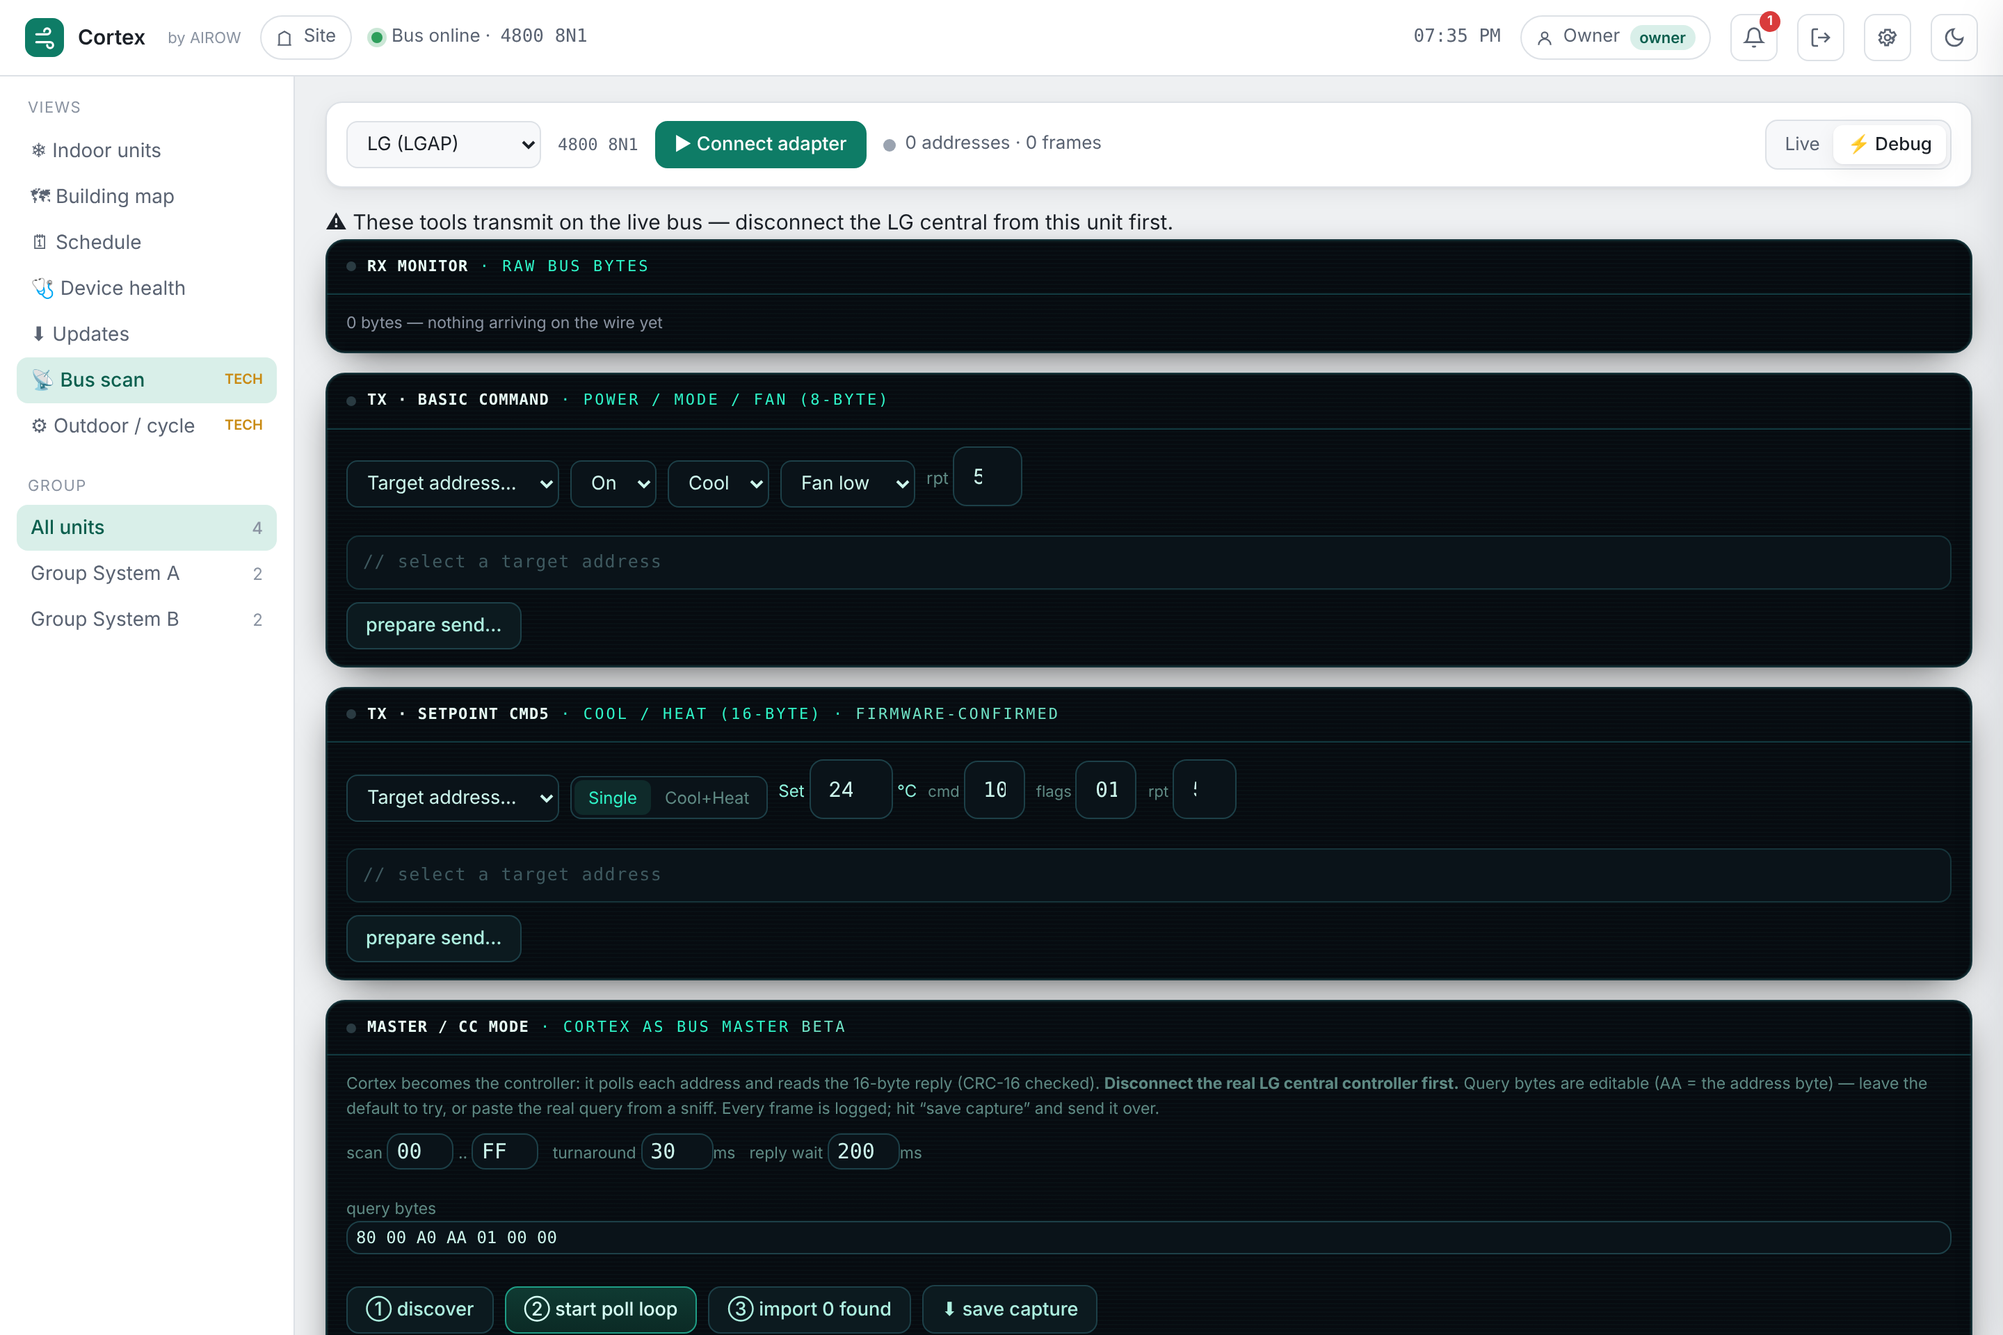
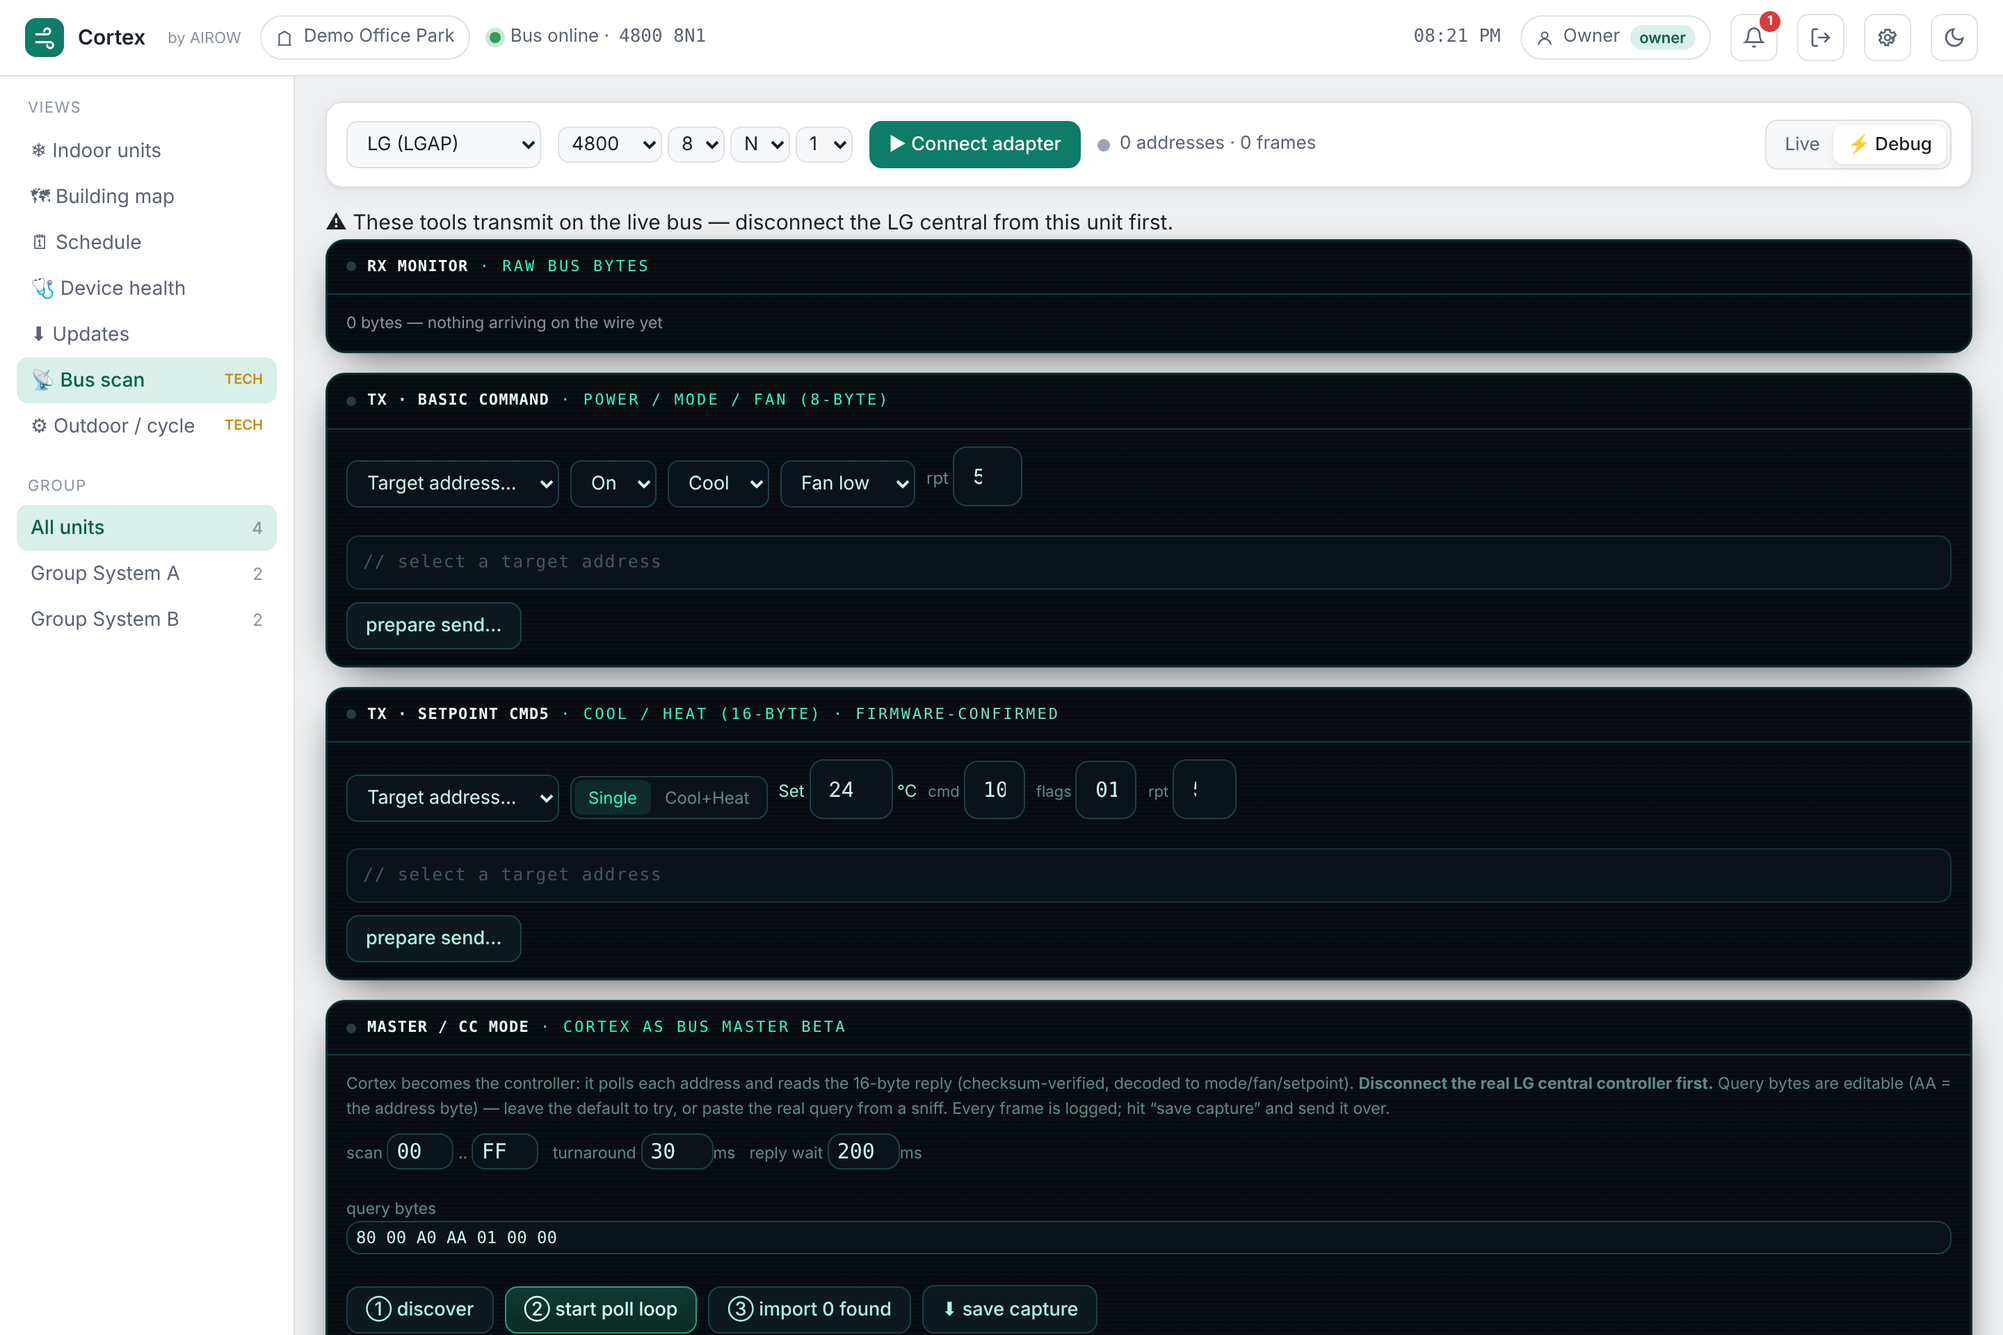
v1.4.0 fixes: drawer/overflow layout bug, updater +x permission, in-app update install/skip, editable serial, site name
- Fix horizontal-overflow bug: off-canvas drawer is now position:fixed + overflow-x:hidden.
- Fix the execute-bit loss that broke OTA/auto-update (scripts tracked 100755; updater + Action
  chmod +x; updater service runs via bash).
- Settings > Updates tab with 'download & install now' (triggers the separate updater unit so it
  survives the restart) and 'skip this version'.
- Bus scan: editable baud/parity/stop/data (tech) for other buses (Multi V 5).
- Header shows the real site name.

Claude-Session: https://claude.ai/code/session_014puXJahUGf67REpcZehK7Q

diff --git a/cortex.html b/cortex.html
@@ -153,6 +153,24 @@
       a classic script tag to switch module-scoped view/elev/busView since page.evaluate cannot
       reach them; .card-main=unit card) + full self-install guide (Ubuntu + bootstrap one-liner).
     * STILL NEED on-wire capture for: exact discovery QUERY bytes, and room-temp table values.
+  - 2026-11-09 v1.4.0 FIXES/FEATURES (pre-publish batch, reported from a live 1.1.2 box):
+    * LAYOUT BUG FIXED: off-canvas .drawer was position:absolute + translateX(102%) → created
+      horizontal overflow (blank right-scroll area; closed drawer visible when scrolled). Fix:
+      .drawer/.scrim → position:fixed, added visibility:hidden (show→visible), and
+      html,body{overflow-x:hidden}.
+    * EXEC-PERMISSION BUG (why OTA/auto-update silently failed + "cannot execute cortex-update.sh
+      Permission denied"): the GitHub Action tarball didn't preserve +x. Fixed: git now tracks all
+      appliance/*.sh as 100755; updater chmod+x the new cortex-update.sh after extract; Action
+      chmod+x in staging; cortex-updater.service ExecStart=/bin/bash ... (robust). UNBLOCK a stuck
+      box with: sudo bash /opt/cortex/current/cortex-update.sh
+    * SITE NAME in header now real (renderWho sets #site-name from CFG.site.name, else /version name).
+    * UPDATES moved into Settings (new "⬇ Updates" tab, loadSettingsUpdates) with DOWNLOAD & INSTALL
+      NOW (POST /api/update/apply → sudo systemctl start cortex-updater.service, a SEPARATE cgroup so
+      it survives the restart it triggers; sudoers updated) and SKIP THIS VERSION (localStorage
+      airow_skipver). Old nav Updates item left in place too.
+    * BUS SCAN serial settings editable (tech): baud/data/parity/stop selects in the connbar →
+      bus.serial override via effSerial(); used by both Web-Serial and backend-WS connect. For
+      Multi V 5 / other buses. Resets on protocol change.
   - SEND setpoint: Bus scan (tech) now has a "Send setpoint (cmd5)" tool — single or dual
     (cool+heat) °C, transmits, with editable cmd/flags bytes.
   - 2026-11-08 UI: the NORMAL unit controls now transmit for real whenever the adapter is
@@ -352,7 +370,7 @@
   color-scheme:dark;
 }
 *{box-sizing:border-box}
-html,body{height:100%;margin:0}
+html,body{height:100%;margin:0;overflow-x:hidden}
 body{background:var(--bg);color:var(--text);font-family:"IBM Plex Sans",system-ui,sans-serif;font-size:15px;line-height:1.5;display:flex;flex-direction:column}
 .mono{font-family:"IBM Plex Mono",ui-monospace,monospace;font-variant-numeric:tabular-nums}
 button{font-family:inherit;cursor:pointer}
@@ -434,9 +452,10 @@ button.tile:hover{border-color:var(--border-strong);transform:translateY(-1px)}
 .lhead:hover{background:var(--surface-2)}
 
 /* drawer */
-.scrim{position:absolute;inset:0;background:rgba(10,14,20,.42);opacity:0;pointer-events:none;transition:opacity .18s;z-index:40}
+.scrim{position:fixed;inset:0;background:rgba(10,14,20,.42);opacity:0;pointer-events:none;transition:opacity .18s;z-index:40}
 .scrim.show{opacity:1;pointer-events:auto}
-.drawer{position:absolute;top:0;right:0;bottom:0;width:380px;max-width:92vw;background:var(--surface);border-left:1px solid var(--border);box-shadow:var(--shadow-lg);transform:translateX(102%);transition:transform .2s ease;z-index:50;display:flex;flex-direction:column}
+.drawer{position:fixed;top:0;right:0;bottom:0;width:380px;max-width:92vw;background:var(--surface);border-left:1px solid var(--border);box-shadow:var(--shadow-lg);transform:translateX(102%);transition:transform .2s ease;z-index:50;display:flex;flex-direction:column;visibility:hidden}
+.drawer.show{visibility:visible}
 .drawer.show{transform:none}
 .drawer-head{padding:16px 18px;border-bottom:1px solid var(--border);display:flex;justify-content:space-between;align-items:flex-start;gap:10px}
 .drawer-body{padding:16px 18px;overflow:auto;flex:1}
@@ -640,7 +659,7 @@ button.tile:hover{border-color:var(--border-strong);transform:translateY(-1px)}
 <body>
 <header>
   <div class="brand"><span class="logo"><svg width="17" height="17" viewBox="0 0 24 24" fill="none" stroke="currentColor" stroke-width="2.2" stroke-linecap="round"><path d="M3 8h11a3 3 0 1 0-3-3"/><path d="M3 16h14a3 3 0 1 1-3 3"/></svg></span>Cortex<span style="font-size:11px;color:var(--text-faint);font-weight:400;margin-left:6px">by AIROW</span></div>
-  <div class="site"><svg width="13" height="13" viewBox="0 0 24 24" fill="none" stroke="currentColor" stroke-width="2"><path d="M3 21h18M5 21V7l7-4 7 4v14"/></svg>Site</div>
+  <div class="site"><svg width="13" height="13" viewBox="0 0 24 24" fill="none" stroke="currentColor" stroke-width="2"><path d="M3 21h18M5 21V7l7-4 7 4v14"/></svg><span id="site-name">Site</span></div>
   <div class="bus"><span class="dot"></span>Bus online · <span class="mono">4800 8N1</span></div>
   <div class="spacer"></div>
   <div class="clock mono" id="clock">--:--</div>
@@ -887,6 +906,10 @@ function applyAccent(){const a=ACCENTS[settings.accent]||ACCENTS.slate;
   const s=dm?a.d:a.l,st=document.documentElement.style;
   st.setProperty("--accent",s[0]);st.setProperty("--accent-ink",s[1]);st.setProperty("--accent-soft",s[2]);}
 function renderWho(){
+  const sn=document.getElementById("site-name");
+  if(sn){const n=(CFG&&CFG.site&&CFG.site.name&&CFG.site.name!=="Site")?CFG.site.name:null;
+    if(n)sn.textContent=n;
+    else fetch('/version',{cache:'no-store'}).then(r=>r.json()).then(j=>{if(j&&j.name)sn.textContent=j.name;}).catch(()=>{});}
   const name=currentUser?currentUser.name:"Guest";
   const role=currentUser?currentUser.role:(session.tech?"technician":(session.admin?"admin":"customer"));
   document.getElementById("who").innerHTML=`<svg width="13" height="13" viewBox="0 0 24 24" fill="none" stroke="currentColor" stroke-width="2"><circle cx="12" cy="8" r="4"/><path d="M4 21a8 8 0 0 1 16 0"/></svg> ${name} <span class="rolebadge">${role}</span>`;
@@ -1169,7 +1192,7 @@ async function busConnect(){
     bus.port=await navigator.serial.requestPort();
   }catch(e){bus.err="No port picked — click Connect, then choose your USB-RS485 adapter (CP210x / Silicon Labs) in the popup.";bus.port=null;renderBusScan();return;}
   try{
-    await bus.port.open({baudRate:p.baud,dataBits:p.dataBits,stopBits:p.stopBits,parity:p.parity});
+    const es=effSerial();await bus.port.open({baudRate:es.baud,dataBits:es.dataBits,stopBits:es.stopBits,parity:es.parity});
     bus.scanning=true;bus.err="";renderBusScan();
     busReadLoop();
   }catch(e){
@@ -1185,7 +1208,7 @@ function busConnectBackend(){
   const p=PROTOCOLS[bus.proto]||PROTOCOLS.lg;
   try{
     const wsp=location.protocol==='https:'?'wss':'ws';
-    const ws=new WebSocket(`${wsp}://${location.host}/bus?proto=${encodeURIComponent(bus.proto)}&baud=${p.baud}&parity=${p.parity}&stop=${p.stopBits}&data=${p.dataBits}`);
+    const ws=new WebSocket(`${wsp}://${location.host}/bus?proto=${encodeURIComponent(bus.proto)}&baud=${effSerial().baud}&parity=${effSerial().parity}&stop=${effSerial().stopBits}&data=${effSerial().dataBits}`);
     ws.binaryType='arraybuffer';
     ws.onopen=()=>{bus.scanning=true;bus.err="";renderBusScan();};
     ws.onmessage=ev=>{ if(typeof ev.data==='string'){try{const m=JSON.parse(ev.data);if(m.err)bus.err=m.err;}catch(_){ } bus.dirty=true; return; } ingestBytes(new Uint8Array(ev.data)); };
@@ -1205,7 +1228,7 @@ async function busReopenPort(){
     if(bus.reader){try{await bus.reader.cancel();}catch(_){}try{bus.reader.releaseLock();}catch(_){}bus.reader=null;}
     try{await bus.port.close();}catch(_){}
     await new Promise(r=>setTimeout(r,300));
-    await bus.port.open({baudRate:p.baud,dataBits:p.dataBits,stopBits:p.stopBits,parity:p.parity});
+    const es=effSerial();await bus.port.open({baudRate:es.baud,dataBits:es.dataBits,stopBits:es.stopBits,parity:es.parity});
     return true;
   }catch(e){return false;}
 }
@@ -1421,6 +1444,8 @@ function busUpdate(){
   const rawm=document.getElementById("bus-rawmon");if(rawm){const hexs=bus.recent.slice(-48).map(x=>x.toString(16).padStart(2,"0").toUpperCase()).join(" ");
     rawm.innerHTML=bus.bytes?`<b>${bus.bytes}</b> raw bytes seen · last: <span class="mono" style="color:var(--text-dim)">${hexs||"—"}</span>`:'<span style="color:var(--text-faint)">0 bytes — nothing arriving on the wire yet</span>';}
   const mlogEl=document.getElementById("m-log");if(mlogEl){const atBottom=mlogEl.scrollTop+mlogEl.clientHeight>=mlogEl.scrollHeight-20;mlogEl.textContent=MASTER.log.slice(0,140).join("\n");if(atBottom)mlogEl.scrollTop=0;}}
+function effSerial(){const p=PROTOCOLS[bus.proto]||PROTOCOLS.lg;const s=bus.serial||{};
+  return {baud:s.baud||p.baud,dataBits:s.dataBits||p.dataBits,parity:s.parity||p.parity,stopBits:s.stopBits||p.stopBits};}
 function renderBusScan(){
   const supported="serial" in navigator;const conn=bus.scanning;
   const opts=siteProtocols();if(!opts.includes(bus.proto))bus.proto=opts[0]||"lg";
@@ -1429,7 +1454,11 @@ function renderBusScan(){
   const connbar=`
     <div class="connbar">
       <select class="sel-box" id="bus-proto" ${conn?"disabled":""} style="min-width:140px">${opts.map(k=>`<option value="${k}" ${k===bus.proto?"selected":""}>${PROTOCOLS[k].label}</option>`).join("")}</select>
-      <span class="mono" style="font-size:12px;color:var(--text-dim)">${p.baud} ${p.dataBits}${p.parity[0].toUpperCase()}${p.stopBits}</span>
+      ${session.tech?(()=>{const e=effSerial();return `<span style="display:flex;gap:4px;align-items:center" title="serial settings — adjust for other buses (e.g. Multi V 5)">
+        <select class="sel-box" id="ser-baud" ${conn?"disabled":""} style="padding:3px 5px">${[2400,4800,9600,19200,38400].map(b=>`<option ${e.baud===b?"selected":""}>${b}</option>`).join("")}</select>
+        <select class="sel-box" id="ser-data" ${conn?"disabled":""} style="padding:3px 5px">${[7,8].map(d=>`<option ${e.dataBits===d?"selected":""}>${d}</option>`).join("")}</select>
+        <select class="sel-box" id="ser-par" ${conn?"disabled":""} style="padding:3px 5px">${["none","even","odd"].map(x=>`<option value="${x}" ${e.parity===x?"selected":""}>${x[0].toUpperCase()}</option>`).join("")}</select>
+        <select class="sel-box" id="ser-stop" ${conn?"disabled":""} style="padding:3px 5px">${[1,2].map(s=>`<option ${e.stopBits===s?"selected":""}>${s}</option>`).join("")}</select></span>`;})():`<span class="mono" style="font-size:12px;color:var(--text-dim)">${p.baud} ${p.dataBits}${p.parity[0].toUpperCase()}${p.stopBits}</span>`}
       ${conn?`<button class="btn danger" id="bus-dis">■ Disconnect</button>`:`<button class="btn primary" id="bus-con">▶ Connect adapter</button>`}
       <div class="stat"><span class="pulse ${conn?'':'off'}"></span><span id="bus-count">${conn?'reading…':'idle'}</span></div>
       ${session.tech&&isLG?`<div style="flex:1"></div><div class="segmented"><button id="bv-live" class="${busView==='live'?'on':''}">Live</button><button id="bv-debug" class="${busView==='debug'?'on':''}">⚡ Debug</button></div>`:''}
@@ -1530,7 +1559,11 @@ function renderBusScan(){
     <textarea id="bus-paste" class="inp" style="width:100%;height:64px;font-family:ui-monospace,monospace;font-size:12px" placeholder="paste hex…"></textarea>
     <button class="btn" id="bus-decode" style="margin-top:8px">Load paste</button>`;
   main.innerHTML=connbar+(isLG?((session.tech&&busView==='debug')?debugHTML:liveHTML):captureHTML);
-  const ps=document.getElementById("bus-proto");if(ps)ps.onchange=e=>{bus.proto=e.target.value;busReset();renderBusScan();};
+  const ps=document.getElementById("bus-proto");if(ps)ps.onchange=e=>{bus.proto=e.target.value;bus.serial=null;busReset();renderBusScan();};
+  // custom serial settings (tech) — override the protocol defaults for other buses
+  const setSer=()=>{const g=id=>document.getElementById(id);if(!g("ser-baud"))return;
+    bus.serial={baud:+g("ser-baud").value,dataBits:+g("ser-data").value,parity:g("ser-par").value,stopBits:+g("ser-stop").value};};
+  ["ser-baud","ser-data","ser-par","ser-stop"].forEach(id=>{const el=document.getElementById(id);if(el)el.onchange=setSer;});
   const bvl=document.getElementById("bv-live");if(bvl)bvl.onclick=()=>{busView="live";renderBusScan();};
   const bvd=document.getElementById("bv-debug");if(bvd)bvd.onclick=()=>{busView="debug";renderBusScan();};
   const cc=document.getElementById("bus-con");if(cc)cc.onclick=busConnect;
@@ -1881,16 +1914,52 @@ function organizeUnit(u){const m=getMeta(u);
 let setTab="display";
 function openSettings(){setTab="display";drawSettings();}
 function drawSettings(){
-  const tabs=[["display","🎨 Display",false],["layout","🔌 Layout",false],["advanced","⚙ Advanced",!session.admin],["users","👥 Users",!session.admin],["about","ℹ About",false]];
+  const tabs=[["display","🎨 Display",false],["layout","🔌 Layout",false],["updates","⬇ Updates",false],["advanced","⚙ Advanced",!session.admin],["users","👥 Users",!session.admin],["about","ℹ About",false]];
   let body="";
   if(setTab==="display")body=displayTab();
   else if(setTab==="layout")body=layoutTab();
+  else if(setTab==="updates")body=updatesTab();
   else if(setTab==="advanced")body=session.admin?advancedTab():lockedTab("Advanced settings are Admin-only.","admin");
   else if(setTab==="users")body=session.admin?usersTab():lockedTab("User management is Admin-only.","admin");
   else body=aboutTab();
   modal(head("Settings")+`<div class="tabs">${tabs.map(t=>`<button class="tab ${setTab===t[0]?'on':''}" data-tab="${t[0]}">${t[1]}${t[2]?' <span class="lock">🔒</span>':''}</button>`).join("")}</div><div class="modal-body" id="setbody">${body}</div>`,true);
   mroot.querySelectorAll("[data-tab]").forEach(b=>b.onclick=()=>{setTab=b.dataset.tab;drawSettings();});
   wireSettings();
+  if(setTab==="updates")loadSettingsUpdates();
+}
+function updatesTab(){return `<div id="setupd"><div class="note-box">Checking for updates…</div></div>`;}
+let _skipVer=null;try{_skipVer=localStorage.getItem("airow_skipver");}catch(e){}
+async function loadSettingsUpdates(){
+  let st;try{const r=await fetch('/api/update/check',{cache:'no-store'});st=await r.json();}catch(e){st={error:"This screen works on the installed appliance."};}
+  const el=document.getElementById("setupd");if(!el)return;
+  const cur=st.current||"—";
+  let h=`<div class="setrow"><div><div class="sl">This controller</div><div class="sd">Cortex <span class="mono">v${ue(cur)}</span>${st.name?" · "+ue(st.name):""}</div></div>`;
+  if(st.checking)h+='<span class="badge-ok">…</span>';
+  else if(st.updateAvailable&&st.latest!==_skipVer)h+='<span class="badge-new">v'+ue(st.latest)+" available</span>";
+  else if(st.updateAvailable&&st.latest===_skipVer)h+='<span class="badge-ok">skipped</span>';
+  else if(st.latest)h+='<span class="badge-ok">up to date</span>';
+  else h+='<span class="badge-ok">—</span>';
+  h+="</div>";
+  if(st.updateAvailable){
+    h+=`<div class="note-box" style="margin-top:10px"><b>v${ue(st.latest)}</b> is available.${st.notes?" "+ue(st.notes):""} Updates verify themselves and roll back automatically if anything goes wrong.</div>
+      <div style="display:flex;gap:8px;margin-top:10px;flex-wrap:wrap">
+        <button class="btn primary" id="upd-now">⬇ Download &amp; install now</button>
+        <button class="btn" id="upd-skip">${st.latest===_skipVer?"Un-skip":"Skip this version"}</button></div>`;
+  } else if(st.configured===false){
+    h+='<div class="note-box" style="margin-top:10px">Automatic updates aren\'t turned on for this controller yet.</div>';
+  } else if(st.error){
+    h+='<div class="note-box" style="margin-top:10px">'+ue(st.error)+"</div>";
+  } else {
+    h+='<div class="note-box" style="margin-top:10px">You\'re on the latest version. This controller also checks and updates itself automatically.</div>';
+  }
+  el.innerHTML=h;
+  const now=document.getElementById("upd-now");if(now)now.onclick=async()=>{now.disabled=true;now.textContent="Starting…";
+    try{await fetch('/api/update/apply',{method:"POST"});}catch(e){}
+    el.innerHTML='<div class="note-box">Update started — the controller will download, install, and restart. This page reconnects in a minute or two, and it rolls back on its own if the new version has a problem.</div>';};
+  const skip=document.getElementById("upd-skip");if(skip)skip.onclick=()=>{
+    if(st.latest===_skipVer){try{localStorage.removeItem("airow_skipver");}catch(e){}_skipVer=null;}
+    else{try{localStorage.setItem("airow_skipver",st.latest);}catch(e){}_skipVer=st.latest;}
+    loadSettingsUpdates();};
 }
 function row(label,desc,control){return `<div class="setrow"><div><div class="sl">${label}</div>${desc?`<div class="sd">${desc}</div>`:""}</div>${control}</div>`;}
 function tog(id,on){return `<button class="toggle ${on?'on':''}" data-tog="${id}"></button>`;}

diff --git a/appliance/server.js b/appliance/server.js
@@ -175,6 +175,18 @@ function powerAction(kind, res) {
 app.post('/api/power/reboot',   (_req, res) => powerAction('reboot', res));
 app.post('/api/power/shutdown', (_req, res) => powerAction('poweroff', res));
 
+// Trigger an update now — runs the SEPARATE updater unit (its own cgroup) so it survives the
+// service restart it performs. The updater does the usual verify + atomic swap + rollback.
+app.post('/api/update/apply', (_req, res) => {
+  cors(res);
+  res.json({ ok: true, started: true });
+  setTimeout(() => {
+    execFile('sudo', ['-n', 'systemctl', 'start', 'cortex-updater.service'], (err) => {
+      if (err) console.error('update apply failed:', err.message);
+    });
+  }, 300);
+});
+
 // --- first-run redirect -------------------------------------------------------
 // An unconfigured box sends you straight to the setup wizard; once named, '/' is the app.
 app.get('/', (_req, res, next) => {
